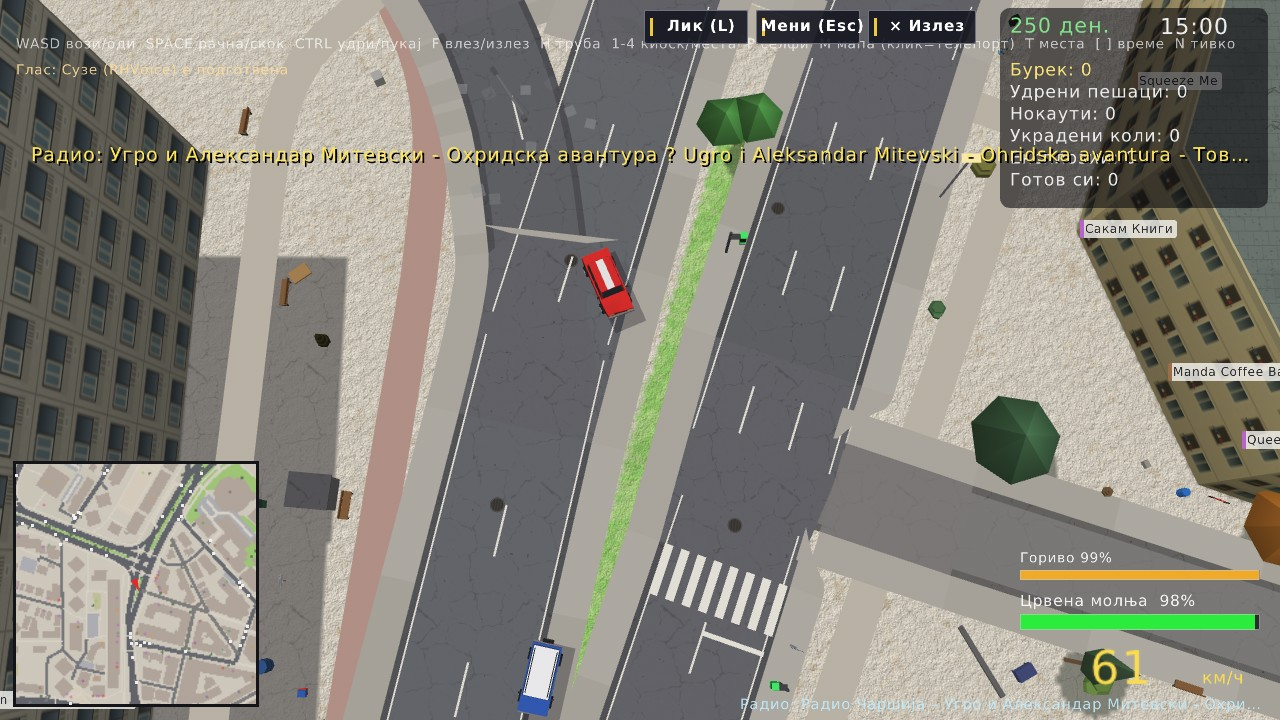
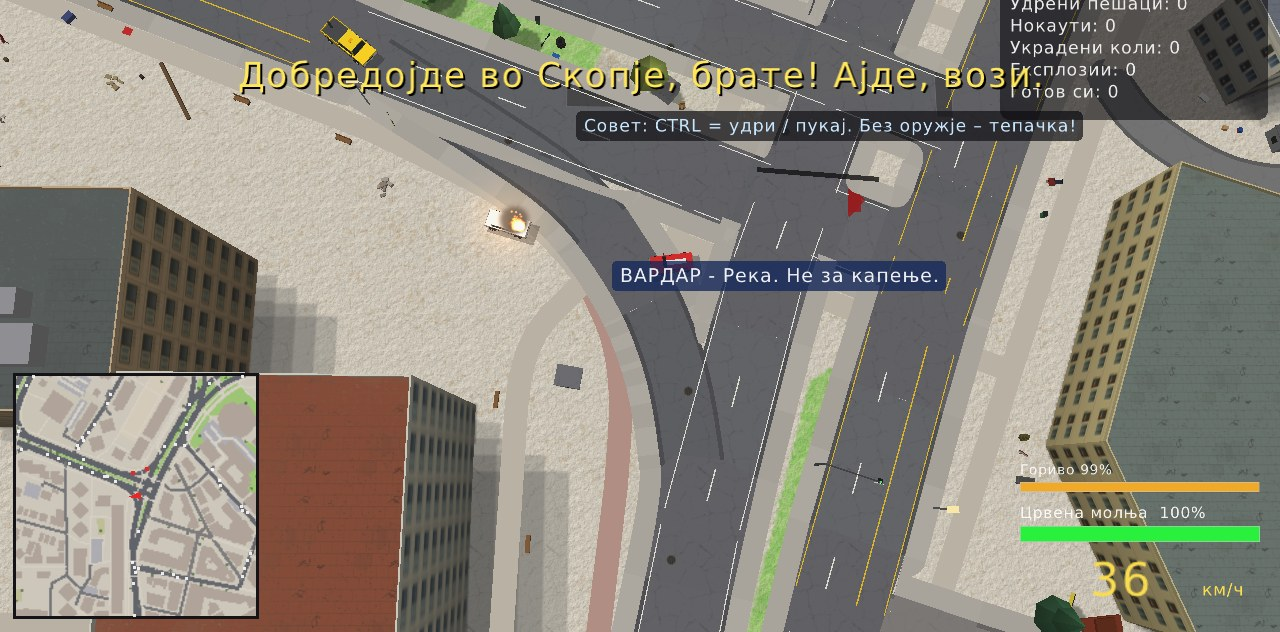
README/CHANGELOG: parking, signs, e-scooters, kids, traffic, European lights, explosions, smog sliders (world v28); fresh drive and night screenshots from the real map
Claude-Session: https://claude.ai/code/session_011mSxVyVQETEBYNocN4WuwW

diff --git a/README.md b/README.md
@@ -24,7 +24,7 @@
 1. Симни го или клонирај го репото.
 2. Кликни двапати на **`run.bat`**.
 
-Првпат ќе му треба некоја минута: го става Python и библиотеките, ја симнува мапата (Geofabrik / Overpass) со теренот, железницата (`rail.json`) и семафорите (`signals.json`) и го гради светот (верзија 23). Ако некоја од двете датотеки недостасува, играта пак го пушта симнувањето. Потоа се пушта за секунди.
+Првпат ќе му треба некоја минута: го става Python и библиотеките, ја симнува мапата (Geofabrik / Overpass) со теренот, железницата (`rail.json`) и семафорите (`signals.json`) и го гради светот (верзија 28). Ако некоја од двете датотеки недостасува, играта пак го пушта симнувањето. Потоа се пушта за секунди.
 
 | наредба | што прави |
 |---|---|
@@ -54,7 +54,7 @@
 | `L` | смени лик | исто |
 | `N` · `F3` · `F11` · `Esc` | тивко · статистика · цел екран · мени / зачувај / вчитај | |
 
-Менито (Esc) е наредено по ред: **Игра** (продолжи, зачувај, вчитај), **Свет** (време, сообраќај, пешаци, агресивност), **Приказ и камера**, **Звук**, **Мапа**.
+Менито (Esc) е наредено по ред: **Игра** (продолжи, зачувај, вчитај), **Свет** (време, сообраќај, пешаци, агресивност, смог до 300% и загадување од возила), **Приказ и камера**, **Звук**, **Мапа**.
 
 ## Што има
 
@@ -70,13 +70,15 @@
 - **Удри во некого** и ќе мрмори, ќе те псуе, ќе ти се заканува („ќе ти врзам шамар“, „фаќај магла“) и на крај ќе се тепа, секој со свој глас.
 - 59 именувани возила (југо, фиќо, лада нива, трабант, пасат на дијаспора, такси, полиција, брза помош, пожарна, ЈСП, свадбарска лимузина) со удрени места, пожар и експлозии.
 - Вистински ЈСП автобуси на вистински линии: возат во средината на десната лента, застануваат на секоја вистинска постојка покрај трасата и се влечат до рабникот. Качи се или одземи го.
+- Изнајмливи е-тротинети покрај секоја втора автобуска станица: `F` плаќа 30 ден. и возиш. Автобуските станици се на надворешниот рабник, а патниците се обични пешаци. Паркинзите се полнат 62–85%, а паркирањето е дијагонално на тротоар или трева каде што има место.
+- Деца на игралиштата ги играат истите деца што и на улица, трчаат и клоцаат топка.
 - Црвени возови со три вагони по најдолгите линии, застануваат на станиците (качи се со `F`; на крајот од линијата се враќаш на најблиската станица), а рампите на премините се спуштаат.
-- Ознаки „BUS“ на коловозот кај станиците и жолта лента само за автобуси на улици со 3+ ленти по насока. Предните тркала на возилата се вртат со воланот. Паметен сообраќај: предност на раскрсници, не се влегува во затнат излез, ленти и ограничувања од OSM, паркирање од двата рабника на тесни станбени улици, заобиколување и бекање без заглавување, итна помош по најкраток пат.
+- Ознаки „BUS“ на коловозот кај станиците и жолта лента само за автобуси на улици со 3+ ленти по насока. Предните тркала на возилата се вртат со воланот. Семафорите се со европски изглед (ротирани глави, штитници, рачка). Знаци за еднопосочни улици, забрана за влез и автобуски ленти. Паметен сообраќај: предност на раскрсници, не се влегува во затнат излез, ленти и ограничувања од OSM, паркирање од двата рабника на тесни станбени улици, заобиколување и бекање без заглавување, итна помош по најкраток пат.
 - Брзата помош ги враќа паднатите, а пожарникарите ги гасат запалените олупини.
 
 ### Акција
 - Тупаници, палки, пиштоли, узи, пумпарици, калашњикови и зоља, со вистински проектили што погодуваат луѓе, коли, ѕидови и дрвја.
-- Судири на кутии, верижни експлозии, ударни бранови и работи што летаат и се кршат.
+- Реалистични експлозии и пожар (блесок, ударен бран, боја на пламен, чад и жар). Судири на кутии, верижни експлозии, ударни бранови и работи што летаат и се кршат.
 - Пари (денари) за секој удар, смачкување и експлозија, со скокачки бројки.
 - Продавници и места: влези во кафуле, банка, црква, училиште, пумпа или маркет и избери од менито.
 - Селфи, храна од киоск, зачувување и вчитување во слотови.

diff --git a/CHANGELOG.md b/CHANGELOG.md
@@ -15,6 +15,12 @@ All notable changes to Скопје · 242. Newest first.
 
 ## Необјавено · 242
 
+- Свет v28. Паркирање: дијагонални места целосно на тротоар или трева, паралелни каде што зградата не остава место, половина од колите на широки улици, паркинзи полни 62–85%; пешаците ги заобиколуваат паркираните коли.
+- Знаци: еднопосочна на почетокот и забрана за влез на крајот на еднопосочните улици, знаци за автобуска лента.
+- Изнајмливи е-тротинети покрај секоја втора автобуска станица (`F`, 30 ден.); децата на игралиштата се истите деца и клоцаат топка.
+- Автобуси: станици на надворешниот рабник (не на средина), патниците се обични пешаци, 48 км/ч со нежно сопирање и заобиколување според големината.
+- Европски семафори: ротирани глави со бела рамка, штитници за светлата, свиткана рачка.
+- Реалистични експлозии и пожар; лизгач за смог до 300% и за загадување од возила во менито.
 - Тесни улици: кога две спротивни коли ќе се заглават, едната се враќа назад за да ја пропушти другата, а неколку секунди и двете вртат со двојно помал радиус.
 - Возилата вртат околу задната оска (предните тркала управуваат), а не околу средината, па задниот дел не бега надвор. Автобусите заобиколуваат паркирани коли навреме и само колку што треба, само во слободна лента, и не застануваат без причина: пречките ги бараат по својата траса и со вистинската ширина.
 - Сообраќај (визуелно, свет v23): семафори и на поголемите главни раскрсници што ги нема во картата, на широките улици со рачка што виси над лентите; „BUS“ ознаки на коловозот кај станиците; на улици со 3+ ленти по насока десната лента е жолта (само за автобуси, колите ја користат како и досега); предните тркала на сите возила се вртат според аголот на воланот.
